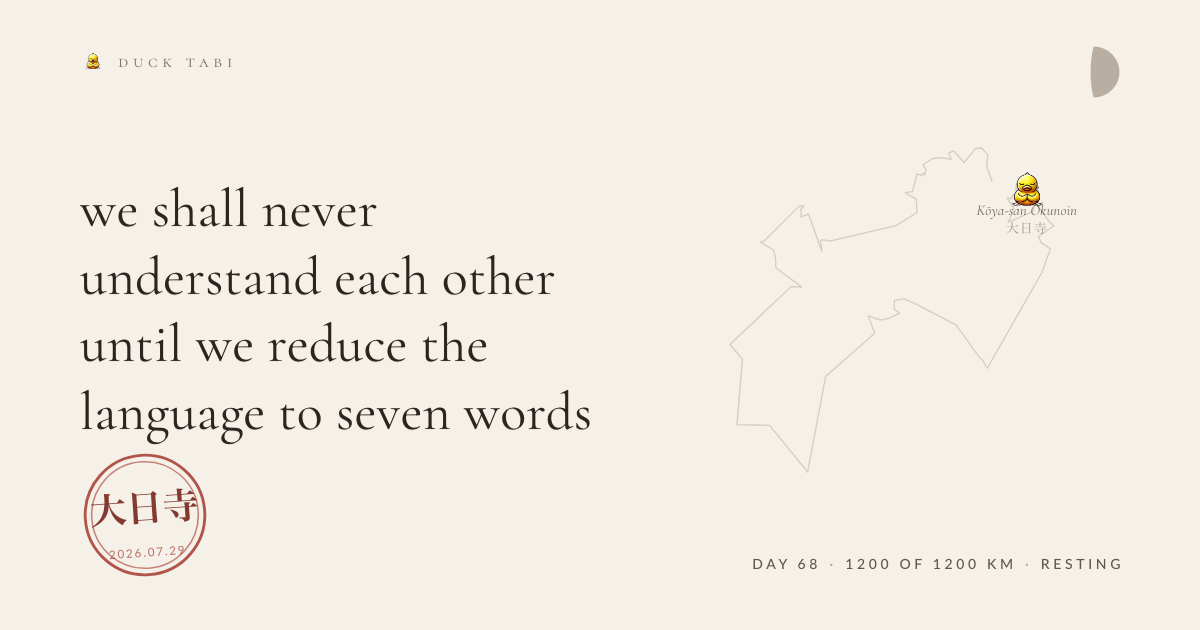
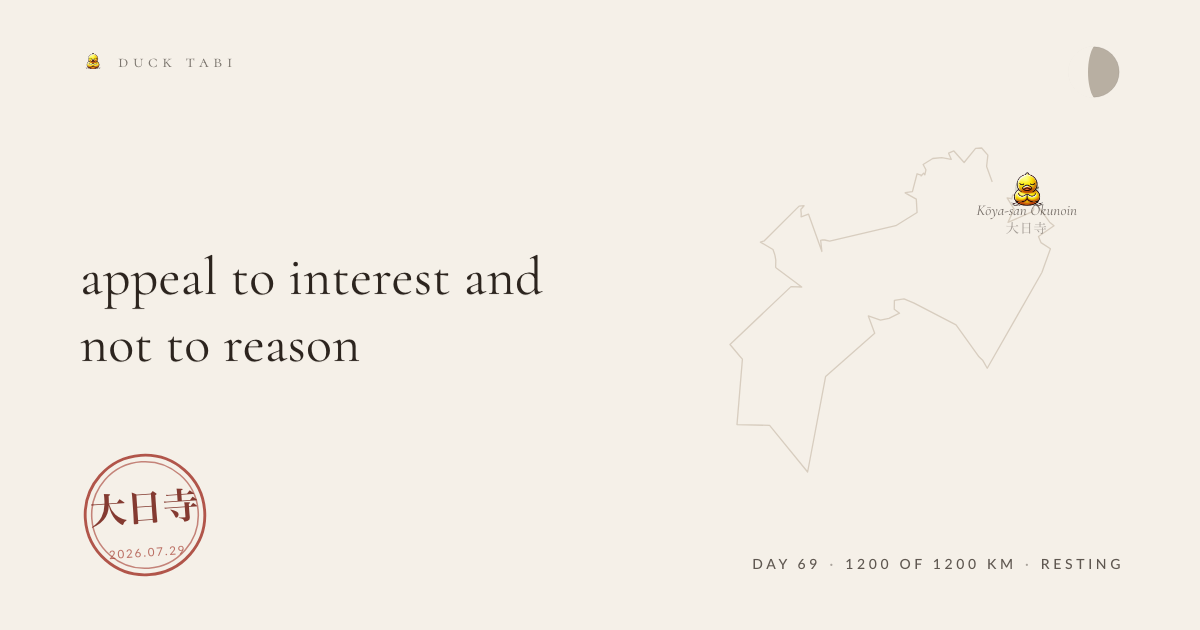
the duck walks

diff --git a/entries/2026-10-06-meditation.md b/entries/2026-10-06-meditation.md
@@ -1,0 +1,14 @@
+---
+date: '2026-10-06'
+route: shikoku-88
+stage: 4
+stageName: Kōya-san Okunoin
+coords: [135.589, 34.2167]
+kind: meditation
+glyph: 🌿
+weather: clear, 13°C
+kmFromStart: 9
+heardId: a2da3cac
+---
+
+appeal to interest and not to reason
